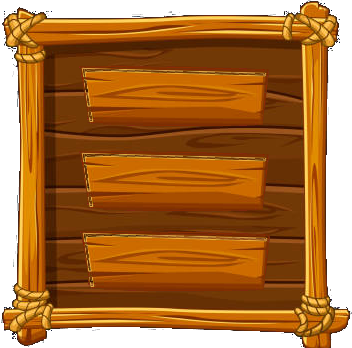
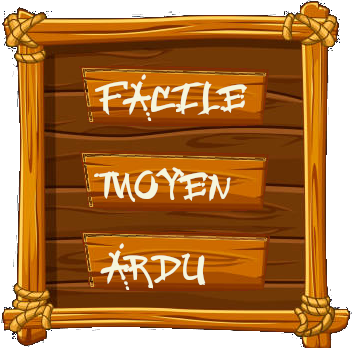
:sparkles: Add game difficulties

diff --git a/src/app/services/game.service.ts b/src/app/services/game.service.ts
@@ -2,12 +2,10 @@ import {Injectable} from '@angular/core';
 import {Subject} from 'rxjs';
 import {SnakeModel} from '../models/snake.model';
 import {AppleModel} from '../models/apple.model';
-
-export enum GameDifficulties {
-  EASY,
-  MEDIUM,
-  HARD,
-}
+import {Difficulty} from '../models/difficulty';
+import {EasyDifficulty} from '../models/easyDifficulty';
+import {MediumDifficulty} from '../models/mediumDifficulty';
+import {HardDifficulty} from '../models/hardDifficulty';
 
 export const Direction = {
   NORTH : { x: 0, y: -1},
@@ -19,11 +17,12 @@ export const Direction = {
 @Injectable({providedIn: 'root'})
 export class GameService {
 
-  private difficulty: GameDifficulties;
+  private difficulty: Difficulty;
 
   private snake: SnakeModel;
   snakeSubject: Subject<SnakeModel> = new Subject<SnakeModel>();
   apple: AppleModel;
+  rocks: {x: number, y: number}[];
 
   private score: number;
   scoreSubject: Subject<number> = new Subject<number>();
@@ -31,19 +30,20 @@ export class GameService {
   private lengthX: number;
   private lengthY: number;
 
-  private currentDirection = Direction.SOUTH;
+  private currentDirection;
   private hasMoved = false;
 
   private ended: boolean;
   isEndedSubject: Subject<boolean> = new Subject<boolean>();
 
-  startGame(difficulty: GameDifficulties, lengthX: number, lengthY: number) {
-    this.difficulty = difficulty;
+  startGame(difficulty: string, lengthX: number, lengthY: number) {
     this.ended = false;
     this.score = 0;
+    this.currentDirection = Direction.SOUTH;
     this.scoreSubject.next(this.score);
     this.lengthX = lengthX;
     this.lengthY = lengthY;
+    this.rocks = [];
 
     // Emit the 'first' snake and apple
     this.snake = new SnakeModel([
@@ -60,6 +60,22 @@ export class GameService {
         y: Math.floor(this.lengthY / 2)
       }], Direction.SOUTH
     );
+
+    let diff;
+    switch (difficulty) {
+      case 'easy' :
+        diff = new EasyDifficulty();
+        break;
+      case 'medium' :
+        diff = new MediumDifficulty();
+        break;
+      case 'hard' :
+        const hard = new HardDifficulty(lengthX, lengthY, this.snake);
+        diff = hard;
+        this.rocks = hard.rocks;
+        break;
+    }
+    this.difficulty = diff;
 
     this.apple = this.generateApple();
     this.emitSnake();
@@ -90,38 +106,10 @@ export class GameService {
   }
 
   private moveSnake() {
-    const head = this.snake.cells[0];
-    const nextHead = {
-      x: head.x + this.currentDirection.x,
-      y: head.y + this.currentDirection.y
-    };
-
-    this.snake.cells.pop();
-
-    if (this.isInGrid(nextHead.x, nextHead.y)) {
-      this.snake.cells.unshift(nextHead);
-    }
-    else {
-      if (this.currentDirection.x === 1) {
-        this.snake.cells.unshift({x: 0, y: head.y});
-      }
-      else if (this.currentDirection.x === -1) {
-        this.snake.cells.unshift({x: this.lengthX - 1, y: head.y});
-      }
-      else if (this.currentDirection.y === 1) {
-        this.snake.cells.unshift({x: head.x, y: 0});
-      }
-      else {
-        this.snake.cells.unshift({x: head.x, y: this.lengthY - 1});
-      }
-    }
-
+    // If the snake can't move, the player lose
+    if (!this.difficulty.moveSnake(this.snake, this.currentDirection, this.lengthX, this.lengthY)) this.endGame();
     this.checkCollision();
     this.hasMoved = true;
-  }
-
-  private isInGrid(x: number, y: number) {
-    return x >= 0 && x < this.lengthX && y >= 0 && y < this.lengthY;
   }
 
   changeDirection(direction: {x: number; y: number}) {
@@ -133,7 +121,7 @@ export class GameService {
   }
 
   private incrementsScore() {
-    this.score++;
+    this.score += this.difficulty.getScoreValue();
     this.scoreSubject.next(this.score);
 
     // And grows the snake

diff --git a/src/app/game/game.component.ts b/src/app/game/game.component.ts
@@ -1,5 +1,5 @@
 import {Component, OnDestroy, OnInit} from '@angular/core';
-import {Direction, GameDifficulties, GameService} from '../services/game.service';
+import {Direction, GameService} from '../services/game.service';
 import {Subscription} from 'rxjs';
 import {SnakeModel} from '../models/snake.model';
 import {AppleModel} from '../models/apple.model';
@@ -12,23 +12,27 @@ import {AppleModel} from '../models/apple.model';
 })
 export class GameComponent implements OnInit, OnDestroy {
 
-  // Some global variables used by the drawing functions
-  canvas: HTMLCanvasElement;
-  canvasCtx: CanvasRenderingContext2D;
-  canvasWmid: number;
-  canvasHmid: number;
-  dx;
-  dy;
-  snakeSprites;
+  // Some variables used by the drawing functions
+  private canvas: HTMLCanvasElement;
+  private canvasCtx: CanvasRenderingContext2D;
+  private canvasWmid: number;
+  private canvasHmid: number;
+  private dx: number;
+  private dy: number;
+  private readonly snakeSprites: HTMLImageElement;
+  private rocks: {x: number, y: number}[];
+  private readonly rockSprite: HTMLImageElement;
 
-  snakeSubscription: Subscription;
-  isGameEndedSubscription: Subscription;
+  private snakeSubscription: Subscription;
+  private isGameEndedSubscription: Subscription;
 
-  animationFrameId: number;
+  private animationFrameId: number;
 
   constructor(private gameService: GameService) {
     this.snakeSprites = new Image();
     this.snakeSprites.src = 'assets/snakeSprites.png';
+    this.rockSprite = new Image();
+    this.rockSprite.src = 'assets/rock.svg';
   }
 
   ngOnInit(): void {
@@ -58,12 +62,12 @@ export class GameComponent implements OnInit, OnDestroy {
       this.canvasCtx.drawImage(menuImage, this.canvasWmid - imgWmid, this.canvasHmid - imgHmid);
 
       // Add the listener to let the user choose one difficulty in the menu
-      this.addOneTimeClickListener();
+      this.menuListener();
     });
     menuImage.src = 'assets/gameMenu.png';
   }
 
-  startGame(difficulty: GameDifficulties) {
+  startGame(difficulty: string) {
     // Add the keys listener for web and mobile
     this.addKeyListener();
 
@@ -92,6 +96,9 @@ export class GameComponent implements OnInit, OnDestroy {
     }
 
     this.gameService.startGame(difficulty, lengthX, lengthY);
+
+    // Get the rocks generated by the service
+    this.rocks = this.gameService.rocks;
 
     const step = t1 => t2 => {
       if (t2 - t1 > 60) {
@@ -194,6 +201,15 @@ export class GameComponent implements OnInit, OnDestroy {
       this.dx, this.dy);
 
     this.drawApple(this.gameService.apple);
+    this.drawRocks();
+  }
+
+  private drawRocks() {
+    if (!this.rocks) return;
+
+    this.rocks.forEach(rock => {
+      this.canvasCtx.drawImage(this.rockSprite, rock.x, rock.y, this.dx, this.dy);
+    });
   }
 
   private drawApple(apple: AppleModel) {
@@ -210,7 +226,7 @@ export class GameComponent implements OnInit, OnDestroy {
     window.cancelAnimationFrame(this.animationFrameId);
   }
 
-  private addOneTimeClickListener() {
+  private menuListener() {
     const oneTimeClickListener = (e) => {
 
       const deltaX = Math.abs(e.x - this.canvasWmid);
@@ -221,15 +237,15 @@ export class GameComponent implements OnInit, OnDestroy {
         let started = false;
 
         if (deltaY > -100 && deltaY < -60) {
-          this.startGame(GameDifficulties.EASY);
+          this.startGame('easy');
           started = true;
         }
         else if (deltaY > -20 && deltaY < 20) {
-          this.startGame(GameDifficulties.MEDIUM);
+          this.startGame('medium');
           started = true;
         }
         else if (deltaY > 50 && deltaY < 100) {
-          this.startGame(GameDifficulties.HARD);
+          this.startGame('hard');
           started = true;
         }
 

diff --git a/src/app/models/hardDifficulty.ts b/src/app/models/hardDifficulty.ts
@@ -1,0 +1,54 @@
+import {Difficulty, isInGrid} from './difficulty';
+import {SnakeModel} from './snake.model';
+
+export class HardDifficulty implements Difficulty {
+
+  rocks: {x: number, y: number}[];
+
+  constructor(lengthX: number, lengthY: number, snake: SnakeModel) {
+    this.rocks = [];
+
+    // generate randoms rocks
+    const nbRocks = lengthX * lengthY / 60;
+
+    for (let i = 0; i < nbRocks; i++) {
+      const rock = {
+        x: Math.floor(Math.random() * lengthX),
+        y: Math.floor(Math.random() * lengthY)
+      };
+
+      // Because we don't want the rock to be on the snake
+      while (snake.cells.some(e => Math.abs(e.x - rock.x) < 2 && Math.abs(e.y - rock.y) < 2)) {
+        rock.x = Math.floor(Math.random() * lengthX);
+        rock.y = Math.floor(Math.random() * lengthY);
+      }
+
+      this.rocks.push(rock);
+    }
+  }
+
+
+  getScoreValue(): number {
+    return 3;
+  }
+
+  moveSnake(snake: SnakeModel, currentDirection: { x: number; y: number }, lengthX: number, lengthY: number) {
+    const head = snake.cells[0];
+    const nextHead = {
+      x: head.x + currentDirection.x,
+      y: head.y + currentDirection.y
+    };
+
+    if (isInGrid(nextHead.x, nextHead.y, lengthX, lengthY) && !this.checkRockCollision(nextHead.x, nextHead.y)) {
+      snake.cells.unshift(nextHead);
+      snake.cells.pop();
+      return true;
+    }
+
+    return false;
+  }
+
+  private checkRockCollision(x: number, y: number) {
+    return this.rocks.some(rock => rock.x === x && rock.y === y);
+  }
+}

diff --git a/src/app/models/easyDifficulty.ts b/src/app/models/easyDifficulty.ts
@@ -1,0 +1,40 @@
+import {Difficulty, isInGrid} from './difficulty';
+import {SnakeModel} from './snake.model';
+
+export class EasyDifficulty implements Difficulty {
+
+  getScoreValue(): number {
+    return 1;
+  }
+
+  moveSnake(snake: SnakeModel, currentDirection: { x: number; y: number },
+            lengthX: number, lengthY: number) {
+    const head = snake.cells[0];
+    const nextHead = {
+      x: head.x + currentDirection.x,
+      y: head.y + currentDirection.y
+    };
+
+    snake.cells.pop();
+
+    if (isInGrid(nextHead.x, nextHead.y, lengthX, lengthY)) {
+      snake.cells.unshift(nextHead);
+    }
+    else {
+      if (currentDirection.x === 1) {
+        snake.cells.unshift({x: 0, y: head.y});
+      }
+      else if (currentDirection.x === -1) {
+        snake.cells.unshift({x: lengthX - 1, y: head.y});
+      }
+      else if (currentDirection.y === 1) {
+        snake.cells.unshift({x: head.x, y: 0});
+      }
+      else {
+        snake.cells.unshift({x: head.x, y: lengthY - 1});
+      }
+    }
+
+    return true;
+  }
+}

diff --git a/src/app/models/mediumDifficulty.ts b/src/app/models/mediumDifficulty.ts
@@ -1,0 +1,25 @@
+import {Difficulty, isInGrid} from './difficulty';
+import {SnakeModel} from './snake.model';
+
+export class MediumDifficulty implements Difficulty {
+
+  getScoreValue(): number {
+    return 2;
+  }
+
+  moveSnake(snake: SnakeModel, currentDirection: { x: number; y: number }, lengthX: number, lengthY: number) {
+    const head = snake.cells[0];
+    const nextHead = {
+      x: head.x + currentDirection.x,
+      y: head.y + currentDirection.y
+    };
+
+    if (isInGrid(nextHead.x, nextHead.y, lengthX, lengthY)) {
+      snake.cells.unshift(nextHead);
+      snake.cells.pop();
+      return true;
+    }
+
+    return false;
+  }
+}

diff --git a/src/app/models/difficulty.ts b/src/app/models/difficulty.ts
@@ -1,0 +1,12 @@
+import {SnakeModel} from './snake.model';
+
+export interface Difficulty {
+  moveSnake(snake: SnakeModel, currentDirection: {x: number, y: number},
+            lengthX: number, lengthY: number): boolean;
+
+  getScoreValue(): number;
+}
+
+export function isInGrid(x: number, y: number , lengthX: number, lengthY: number) {
+  return x >= 0 && x < lengthX && y >= 0 && y < lengthY;
+}
